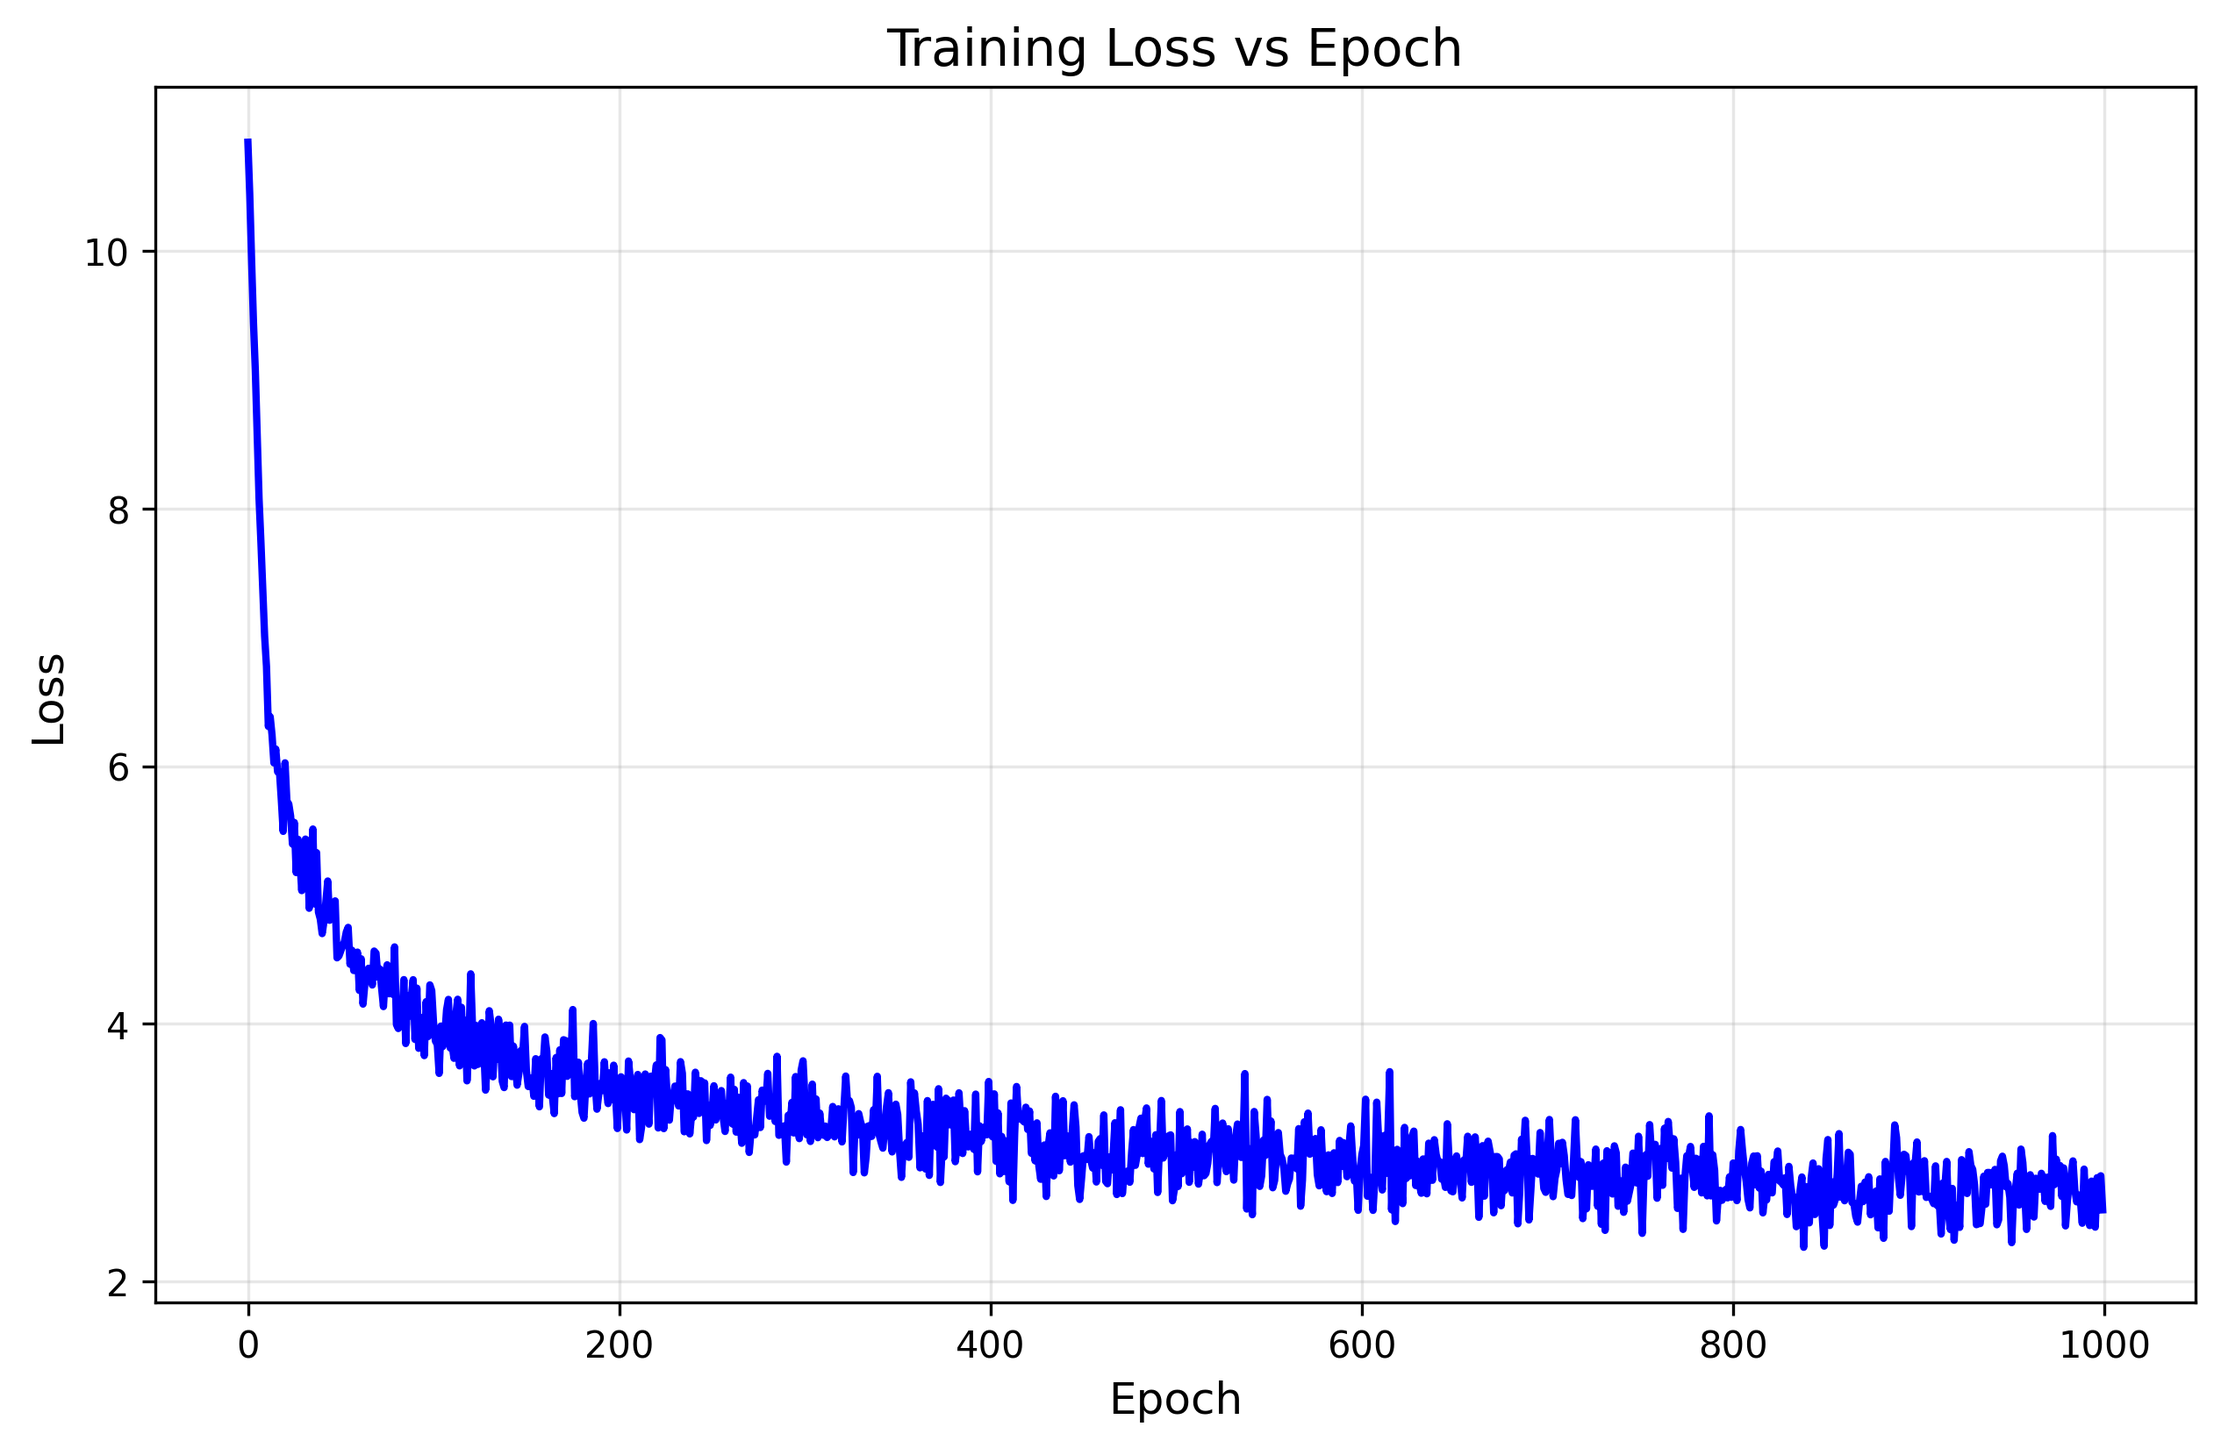
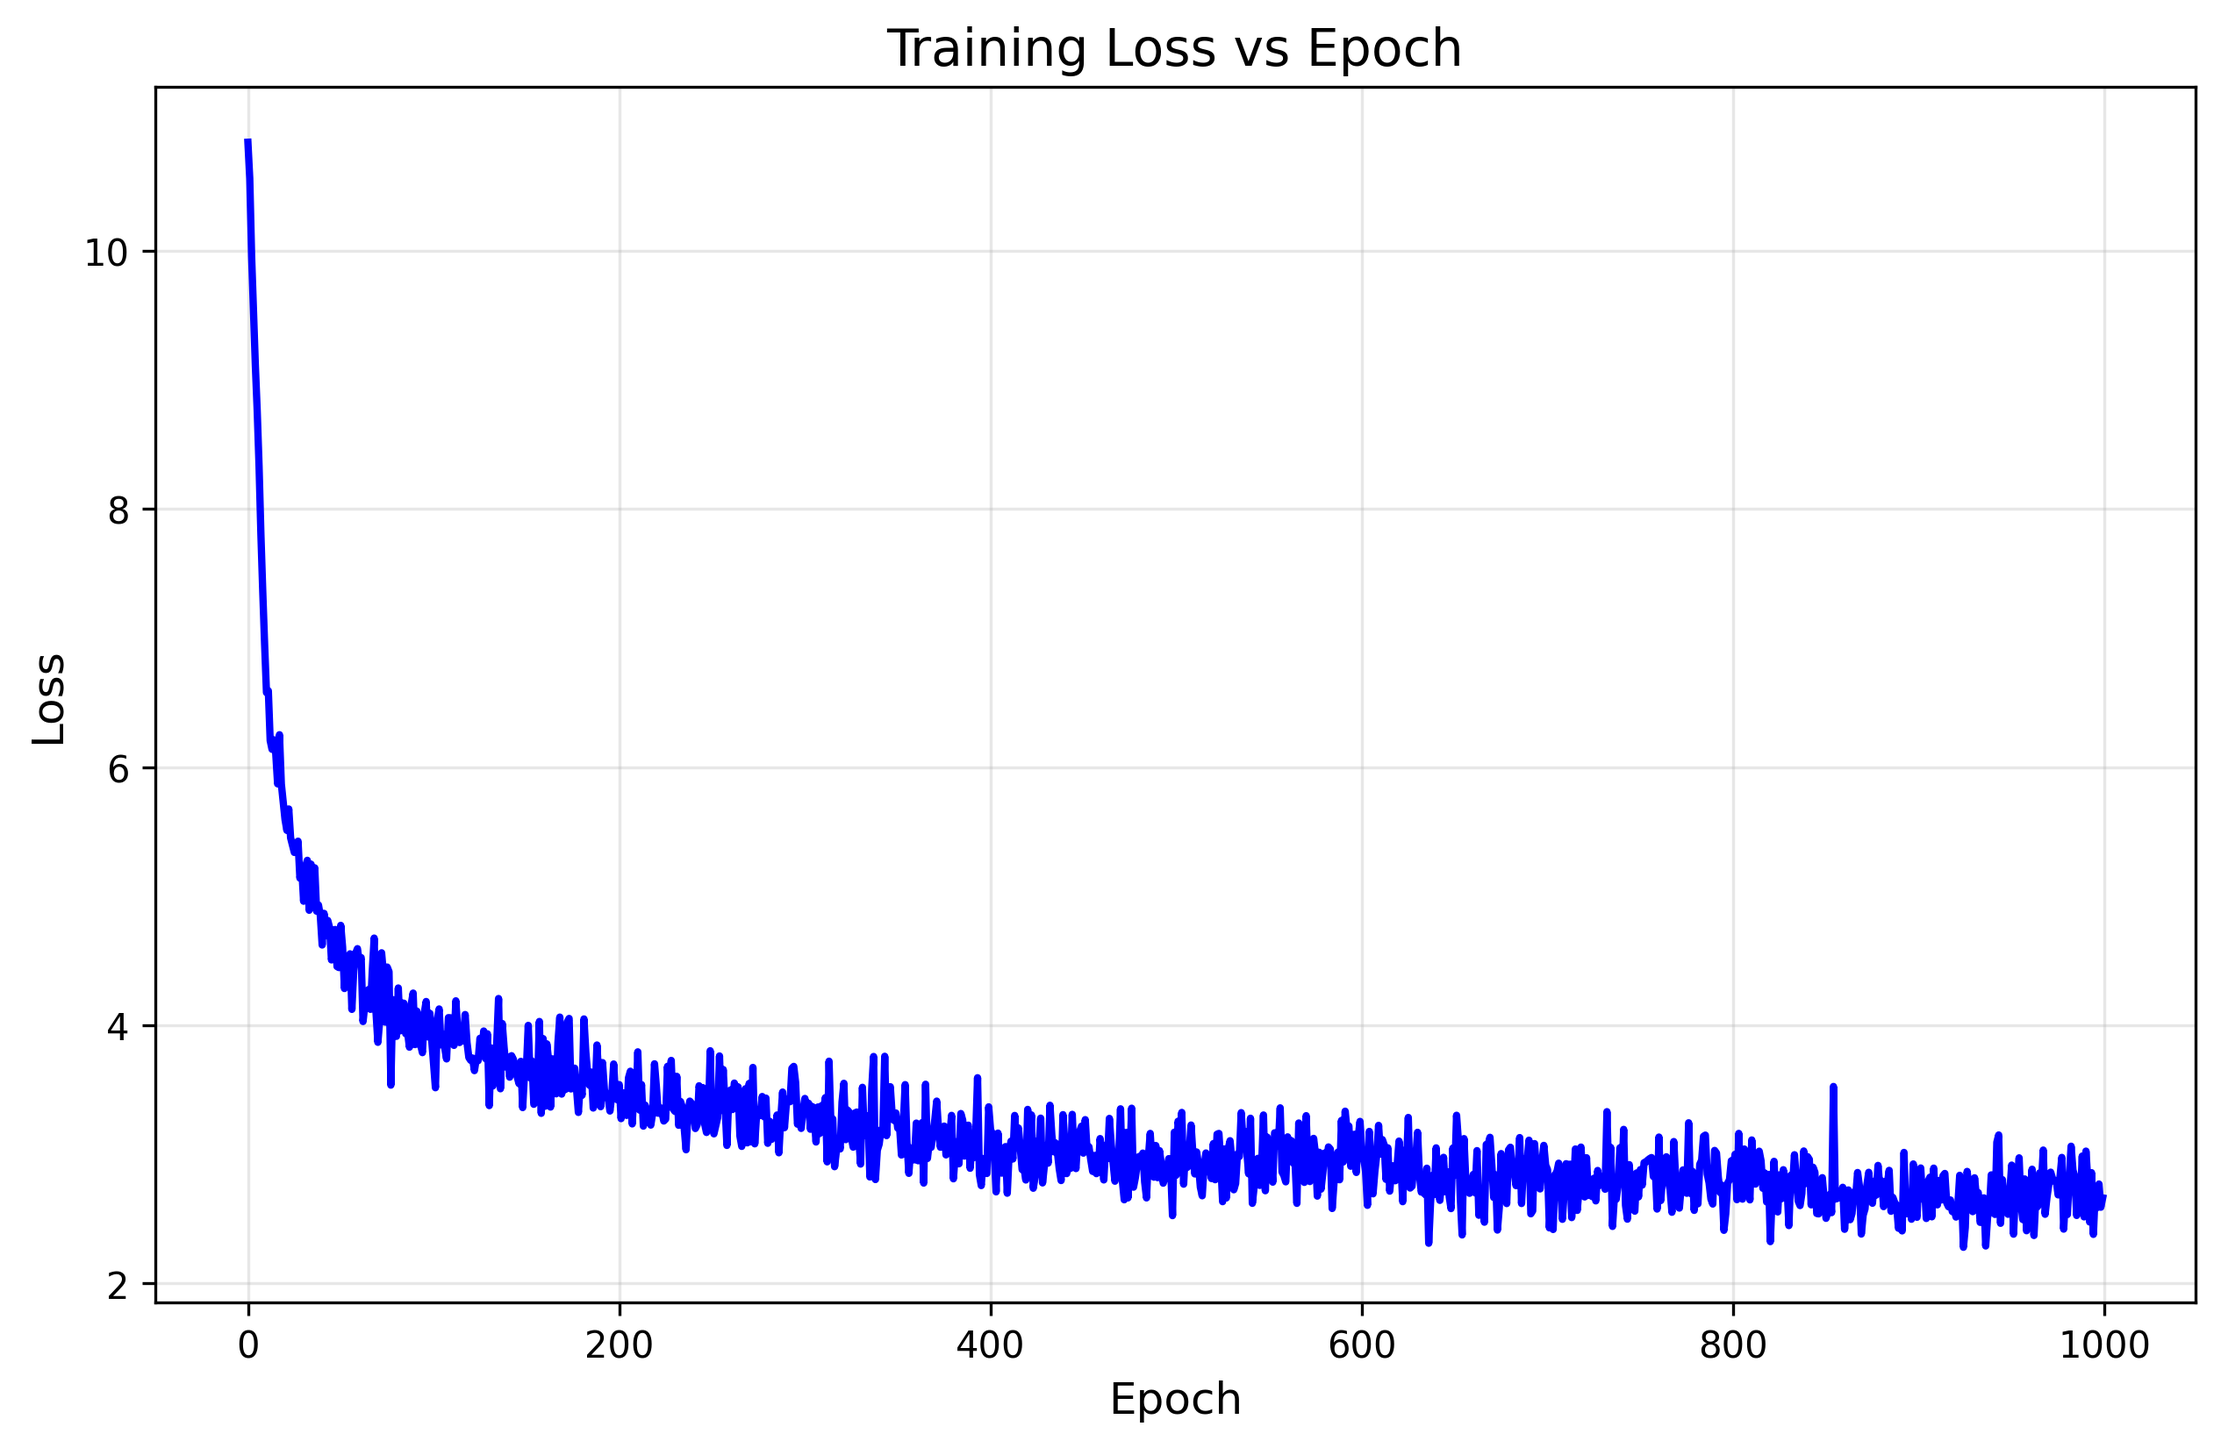
fix tokenizer bug

Changed region(s): [[0.1249, 0.556, 0.9364, 0.8649]]

diff --git a/cs336_basics/train_bpe.py b/cs336_basics/train_bpe.py
@@ -160,263 +160,22 @@ def train_bpe(
         idx += 1
     return vocab, merges
 
-# import regex as re
-# import time
-# import multiprocessing
-# from multiprocessing import Pool
-# from .pretokenization_example import find_chunk_boundaries, pre_tokenize
-# import heapq
-# import os
-# import json
-# import psutil  # 需要安装: pip install psutil
-# import sys
-
-# def get_memory_usage():
-#     """获取当前进程的内存占用（MB）"""
-#     process = psutil.Process(os.getpid())
-#     return process.memory_info().rss / 1024 / 1024
-
-# def train_bpe(
-#     input_path: str,
-#     vocab_size: int,
-#     special_tokens: list[str],
-# ) -> tuple[dict[int, bytes], list[tuple[bytes, bytes]]]:
-#     start_time = time.time()
-#     vocab = {}
-#     merges = [] 
-    
-#     print(f"开始训练 BPE tokenizer")
-#     print(f"目标词表大小: {vocab_size}")
-#     print(f"特殊token: {special_tokens}")
-#     print("-" * 60)
-    
-#     # vocabulary initialization
-#     idx = 0
-#     for special_token in special_tokens:
-#         vocab[idx] = special_token.encode("utf-8")
-#         idx += 1
-#     for i in range(256):
-#         vocab[idx] = bytes([i])
-#         idx += 1
-
-#     special_bytes = {t.encode("utf-8") for t in special_tokens}
-
-#     # pre-tokenization
-#     print("步骤 1/3: 预分词处理...")
-#     pretok_start = time.time()
-    
-#     pre_tokens = {}
-#     with open(input_path, "rb") as f:
-#         num_processes = min(os.cpu_count() or 4, 8)
-#         boundaries = find_chunk_boundaries(f, num_processes, b"<|endoftext|>")
-#         args = []
-        
-#         print(f"使用 {num_processes} 个进程处理 {len(boundaries)-1} 个数据块")
-        
-#         for start, end in zip(boundaries[:-1], boundaries[1:]):
-#             f.seek(start)
-#             chunk = f.read(end - start).decode("utf-8", errors="ignore")
-#             args.append((chunk, special_tokens))
-
-#         with Pool(num_processes) as pool:
-#             results = pool.starmap(pre_tokenize, args)
-        
-#         for sub_pre_tokens in results:
-#             for k, v in sub_pre_tokens.items():
-#                 pre_tokens[k] = pre_tokens.get(k, 0) + v
-    
-#     pretok_time = time.time() - pretok_start
-#     print(f"预分词完成: {len(pre_tokens)} 个唯一token, 耗时 {pretok_time:.2f}s")
-#     print(f"当前内存占用: {get_memory_usage():.2f} MB")
-#     print("-" * 60)
-    
-#     # compute bpe merges
-#     print("步骤 2/3: 计算初始字节对...")
-#     pair_start = time.time()
-    
-#     pair_to_cnt = {}
-#     pair_to_tokens = {}
-
-#     for pre_token, count in pre_tokens.items():
-#         for b1, b2 in zip(pre_token[:-1], pre_token[1:]):
-#             if b1 in special_bytes or b2 in special_bytes:
-#                 continue
-#             pair_of_bytes = (b1, b2)
-#             pair_to_cnt[pair_of_bytes] = pair_to_cnt.get(pair_of_bytes, 0) + count
-#             if pair_of_bytes not in pair_to_tokens:
-#                 pair_to_tokens[pair_of_bytes] = set()
-#             pair_to_tokens[pair_of_bytes].add(pre_token)
-    
-#     pair_time = time.time() - pair_start
-#     print(f"初始字节对计算完成: {len(pair_to_cnt)} 个唯一pair, 耗时 {pair_time:.2f}s")
-#     print(f"当前内存占用: {get_memory_usage():.2f} MB")
-#     print("-" * 60)
-    
-#     # BPE merging
-#     print("步骤 3/3: 执行 BPE 合并...")
-#     merge_start = time.time()
-    
-#     initial_vocab_size = idx
-#     target_merges = vocab_size - initial_vocab_size
-    
-#     merge_count = 0
-#     last_print_time = time.time()
-#     print_interval = 1.0  # 每秒打印一次进度
-    
-#     while idx < vocab_size:
-#         pair_to_cnt = dict(sorted(
-#             pair_to_cnt.items(),
-#             key = lambda item:  (item[1], item[0]),
-#             reverse=True
-#         ))
-#         if not pair_to_cnt:
-#             break
-
-#         merged_pair = next(iter(pair_to_cnt))
-#         top_cnt = pair_to_cnt[merged_pair]
-#         if top_cnt <= 0:
-#             break
-        
-#         del pair_to_cnt[merged_pair]
-#         merges.append(merged_pair)
-
-#         affected_tokens = pair_to_tokens.get(merged_pair, set()).copy()
-#         new_pre_tokens = {}
-#         updated_pairs = {}
-
-#         for pre_token in affected_tokens:
-#             if pre_token not in pre_tokens:
-#                 continue
-            
-#             count = pre_tokens[pre_token]
-#             new_pre_token = []
-#             i = 0
-#             merged = False
-            
-#             while i < len(pre_token):
-#                 if (i + 1 < len(pre_token) and
-#                     pre_token[i] == merged_pair[0] and 
-#                     pre_token[i + 1] == merged_pair[1]):
-#                     merged = True
-#                     merged_tok = pre_token[i] + pre_token[i + 1]
-#                     new_pre_token.append(merged_tok)
-                    
-#                     if i > 0:
-#                         old_pair = (pre_token[i - 1], pre_token[i])
-#                         updated_pairs[old_pair] = updated_pairs.get(old_pair, 0) - count
-
-#                         new_pair = (pre_token[i-1], merged_tok)
-#                         if (new_pair[0] not in special_bytes and 
-#                             new_pair[1] not in special_bytes):
-#                             updated_pairs[new_pair] = updated_pairs.get(new_pair, 0) + count
-
-#                     if i + 2 < len(pre_token):
-#                         old_pair = (pre_token[i + 1], pre_token[i + 2])
-#                         updated_pairs[old_pair] = updated_pairs.get(old_pair, 0) - count
-
-#                         new_pair = (merged_tok, pre_token[i + 2])
-#                         if (new_pair[0] not in special_bytes and 
-#                             new_pair[1] not in special_bytes):
-#                             updated_pairs[new_pair] = updated_pairs.get(new_pair, 0) + count
-#                     i += 2
-#                 else:
-#                     new_pre_token.append(pre_token[i])
-#                     i += 1
-            
-#             new_pre_token_tuple = tuple(new_pre_token)
-#             if merged:
-#                 new_pre_tokens[new_pre_token_tuple] = new_pre_tokens.get(new_pre_token_tuple, 0) + count
-#                 del pre_tokens[pre_token]
-
-#         for token, count in new_pre_tokens.items():
-#             pre_tokens[token] = pre_tokens.get(token, 0) + count
-        
-#         for pair, delta in updated_pairs.items():
-#             old_cnt = pair_to_cnt.get(pair, 0)
-#             new_cnt = max(0, old_cnt + delta)
-
-#             if new_cnt == 0:
-#                 pair_to_cnt.pop(pair, None)
-#             else:
-#                 pair_to_cnt[pair] = new_cnt
-        
-#         if merged_pair in pair_to_tokens:
-#             del pair_to_tokens[merged_pair]
-        
-#         for token in new_pre_tokens.keys():
-#             for i in range(len(token) - 1):
-#                 pair = (token[i], token[i + 1])
-#                 if pair[0] not in special_bytes and pair[1] not in special_bytes:
-#                     if pair not in pair_to_tokens:
-#                         pair_to_tokens[pair] = set()
-#                     pair_to_tokens[pair].add(token)
-        
-#         vocab[idx] = merged_pair[0] + merged_pair[1]
-#         idx += 1
-#         merge_count += 1
-        
-#         # 显示进度
-#         current_time = time.time()
-#         if current_time - last_print_time >= print_interval:
-#             progress = merge_count / target_merges * 100
-#             elapsed = current_time - merge_start
-#             eta = (elapsed / merge_count * (target_merges - merge_count)) if merge_count > 0 else 0
-            
-#             # 使用 \r 实现同行更新
-#             sys.stdout.write(
-#                 f"\r合并进度: {merge_count}/{target_merges} "
-#                 f"({progress:.1f}%) | "
-#                 f"已用时间: {elapsed:.1f}s | "
-#                 f"预计剩余: {eta:.1f}s | "
-#                 f"内存: {get_memory_usage():.1f}MB"
-#             )
-#             sys.stdout.flush()
-#             last_print_time = current_time
-    
-#     # 打印最终进度
-#     sys.stdout.write("\n")
-#     merge_time = time.time() - merge_start
-#     print(f"BPE 合并完成: {merge_count} 次合并, 耗时 {merge_time:.2f}s")
-#     print("-" * 60)
-    
-#     # 总结
-#     total_time = time.time() - start_time
-#     final_memory = get_memory_usage()
-    
-#     print("\n" + "=" * 60)
-#     print("训练完成!")
-#     print("=" * 60)
-#     print(f"总耗时: {total_time:.2f}s")
-#     print(f"  - 预分词: {pretok_time:.2f}s ({pretok_time/total_time*100:.1f}%)")
-#     print(f"  - 计算初始pair: {pair_time:.2f}s ({pair_time/total_time*100:.1f}%)")
-#     print(f"  - BPE合并: {merge_time:.2f}s ({merge_time/total_time*100:.1f}%)")
-#     print(f"最终内存占用: {final_memory:.2f} MB")
-#     print(f"词表大小: {len(vocab)}")
-#     print(f"合并次数: {len(merges)}")
-#     print("=" * 60)
-    
-#     return vocab, merges
-
 if __name__=="__main__":
     vocab, merges = train_bpe(
-        input_path="/home/jq/cs336/assignment1-basics/data/TinyStoriesV2-GPT4-train.txt",
+        input_path="/home/ubuntu/cs336_assignments/assignment1-basics/data/TinyStoriesV2-GPT4-train.txt",
         vocab_size=10000,
         special_tokens=["<|endoftext|>"]
     )
-    # 将 vocab 写入 JSON 文件
-    # 注意：JSON 的键必须是字符串，值需要转换为可序列化格式
-    vocab_json = {str(k): v.decode('utf-8', errors='replace') for k, v in vocab.items()}
-    with open("/home/jq/cs336/assignment1-basics/utils/tinystories_vocab.json", "w", encoding="utf-8") as f:
+    
+    # 【修复 1】使用 repr() 完美保留 bytes 的原始形态，避免乱码或替换
+    vocab_json = {str(k): repr(v) for k, v in vocab.items()}
+    with open("/home/ubuntu/cs336_assignments/assignment1-basics/utils/tinystories_vocab.json", "w", encoding="utf-8") as f:
         json.dump(vocab_json, f, ensure_ascii=False, indent=2)
     
-    # 将 merges 写入 TXT 文件
-    # 每行一个 merge，格式：byte1 byte2
-    with open("/home/jq/cs336/assignment1-basics/utils/tinystories_merges.txt", "w", encoding="utf-8") as f:
+    with open("/home/ubuntu/cs336_assignments/assignment1-basics/utils/tinystories_merges.txt", "w", encoding="utf-8") as f:
         for pair in merges:
-            # 将 bytes 转为十六进制字符串或可读格式
-            b1_str = pair[0].decode('utf-8', errors='replace')
-            b2_str = pair[1].decode('utf-8', errors='replace')
-            f.write(f"{b1_str} {b2_str}\n")
+            # 【修复 2】使用 tab (\t) 作为分隔符，防止和 token 自身的空格冲突
+            f.write(f"{repr(pair[0])}\t{repr(pair[1])}\n")
     
     print(f"Vocab saved to vocab.json ({len(vocab)} entries)")
     print(f"Merges saved to merges.txt ({len(merges)} merges)")

diff --git a/tests/adapters.py b/tests/adapters.py
@@ -41,7 +41,7 @@ def run_linear(
         Float[Tensor, "... d_out"]: The transformed output of your linear module.
     """
     linear_layer = Linear(d_in, d_out)
-    linear_layer.load_state_dict({"W": weights})
+    linear_layer.load_state_dict({"weight": weights})
     return linear_layer(in_features)
     raise NotImplementedError
 
@@ -65,7 +65,7 @@ def run_embedding(
         Float[Tensor, "... d_model"]: Batch of embeddings returned by your Embedding layer.
     """
     embedding_layer = Embedding(vocab_size, d_model)
-    embedding_layer.load_state_dict({"embedding": weights})
+    embedding_layer.load_state_dict({"weight": weights})
     return embedding_layer(token_ids)
     raise NotImplementedError
 
@@ -100,9 +100,9 @@ def run_swiglu(
     # swiglu.w2.weight.data = w2_weight
     # swiglu.w3.weight.data = w3_weight
     swiglu_layer = SwiGLU(d_model, d_ff)
-    swiglu_layer.load_state_dict({"w1": w1_weight,
-                                  "w2": w2_weight,
-                                  "w3": w3_weight})
+    swiglu_layer.load_state_dict({"w1.weight": w1_weight,
+                                  "w2.weight": w2_weight,
+                                  "w3.weight": w3_weight})
     return swiglu_layer(in_features)
     raise NotImplementedError
 
@@ -430,7 +430,7 @@ def run_rmsnorm(
         RMSNorm of the `in_features`.
     """
     rmsnorm_layer = RMSNorm(d_model, eps)
-    rmsnorm_layer.load_state_dict({"g": weights})
+    rmsnorm_layer.load_state_dict({"weight": weights})
     return rmsnorm_layer(in_features)
     raise NotImplementedError
 

diff --git a/cs336_basics/tokenizer.py b/cs336_basics/tokenizer.py
@@ -1,5 +1,6 @@
 import json
 import regex as re
+import ast
 from typing import Iterator, Iterable
 
 class Tokenizer:
@@ -25,9 +26,19 @@ class Tokenizer:
     @classmethod
     def from_files(cls, vocab_filepath: str, merges_filepath: str, special_tokens: list[str] | None = None):
         with open(vocab_filepath, "r", encoding="utf-8") as f:
-            vocab = json.load(f)
+            vocab_raw = json.load(f)
+            # 【修复 3】将 keys 转回 int，将 values 的字符串（如 "b'\\xe2'"）还原为真正的 bytes 对象
+            vocab = {int(k): ast.literal_eval(v) for k, v in vocab_raw.items()}
+            
+        merges = []
         with open(merges_filepath, "r", encoding="utf-8") as f:
-            merges = [line.strip() for line in f]
+            for line in f:
+                line = line.strip('\n')
+                if not line:
+                    continue
+                # 【修复 4】按 tab 切分，并还原为 bytes 元组
+                p1_str, p2_str = line.split('\t')
+                merges.append((ast.literal_eval(p1_str), ast.literal_eval(p2_str)))
         
         tokenizer = cls(vocab, merges, special_tokens)
         return tokenizer

diff --git a/cs336_basics/training_loop.py b/cs336_basics/training_loop.py
@@ -7,9 +7,9 @@ import numpy as np
 from tests.test_tokenizer import get_tokenizer_from_vocab_merges_path
 import matplotlib.pyplot as plt
 
-corpus_file = "/home/jq/cs336/assignment1-basics/tests/fixtures/tinystories_sample_5M.txt"
-vocab_file = "/home/jq/cs336/assignment1-basics/tests/fixtures/gpt2_vocab.json"
-merges_file = "/home/jq/cs336/assignment1-basics/tests/fixtures/gpt2_merges.txt"
+corpus_file = "/home/jingqi/CS336_Assignments/assignment1-basics/tests/fixtures/tinystories_sample_5M.txt"
+vocab_file = "/home/jingqi/CS336_Assignments/assignment1-basics/tests/fixtures/gpt2_vocab.json"
+merges_file = "/home/jingqi/CS336_Assignments/assignment1-basics/tests/fixtures/gpt2_merges.txt"
 
 tokenizer = get_tokenizer_from_vocab_merges_path(vocab_file, merges_file, special_tokens=['<unk>', '<pad>', '<sos>', '<eos>'])
 
